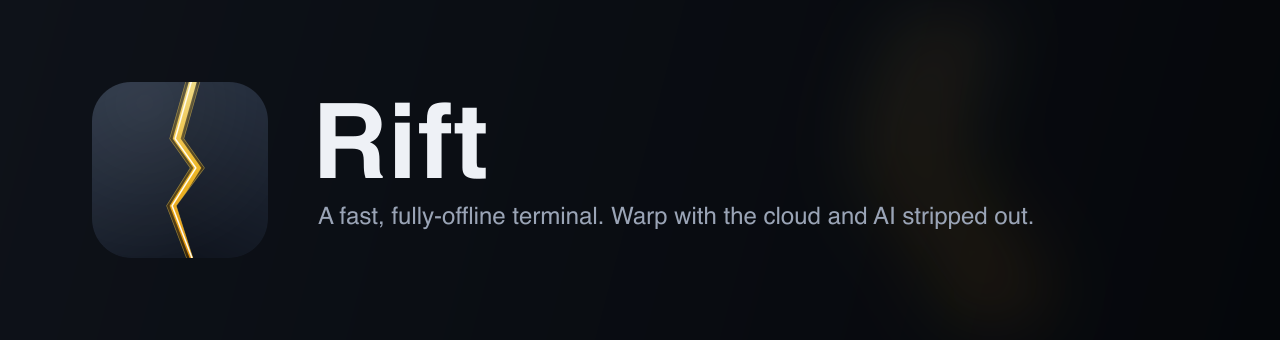
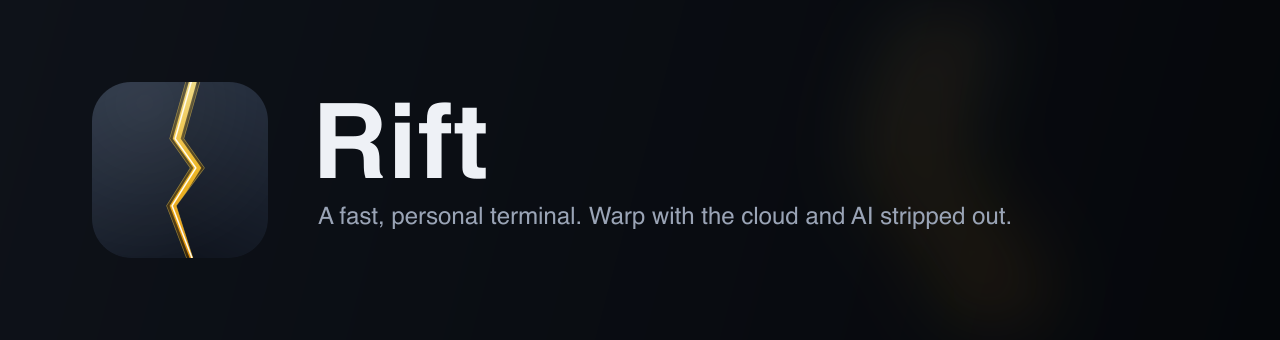
docs(branding): retire "fully offline" as the headline pitch
Being offline is table stakes for a terminal, not a selling point. Lead
with "a fast, personal terminal" instead: hero banner + DMG installer
background (SVG sources re-rendered to PNG), and the flake.nix package
descriptions. The offline angle stays where it belongs — as one row of
the Warp-comparison table in the README. Also refresh the stale
last-synced date in the README (2026-06-14 → 2026-07-10).

Changed region(s): [[0.2812, 0.5882, 0.8125, 0.6765]]

diff --git a/README.md b/README.md
@@ -82,7 +82,7 @@ The default binary is `rift-oss`. The toolchain is pinned in `rust-toolchain.tom
 
 Rift tracks `warpdotdev/warp` as the `upstream` remote, and I pull changes by hand with cherry-picks, so nothing depends on someone else porting them first. The whole codebase is renamed from `warp` to `rift`, so it drifts from upstream on purpose. That's the trade for owning the fork outright.
 
-Last synced with upstream: **2026-06-14**.
+Last synced with upstream: **2026-07-10**.
 
 ## A personal fork
 
